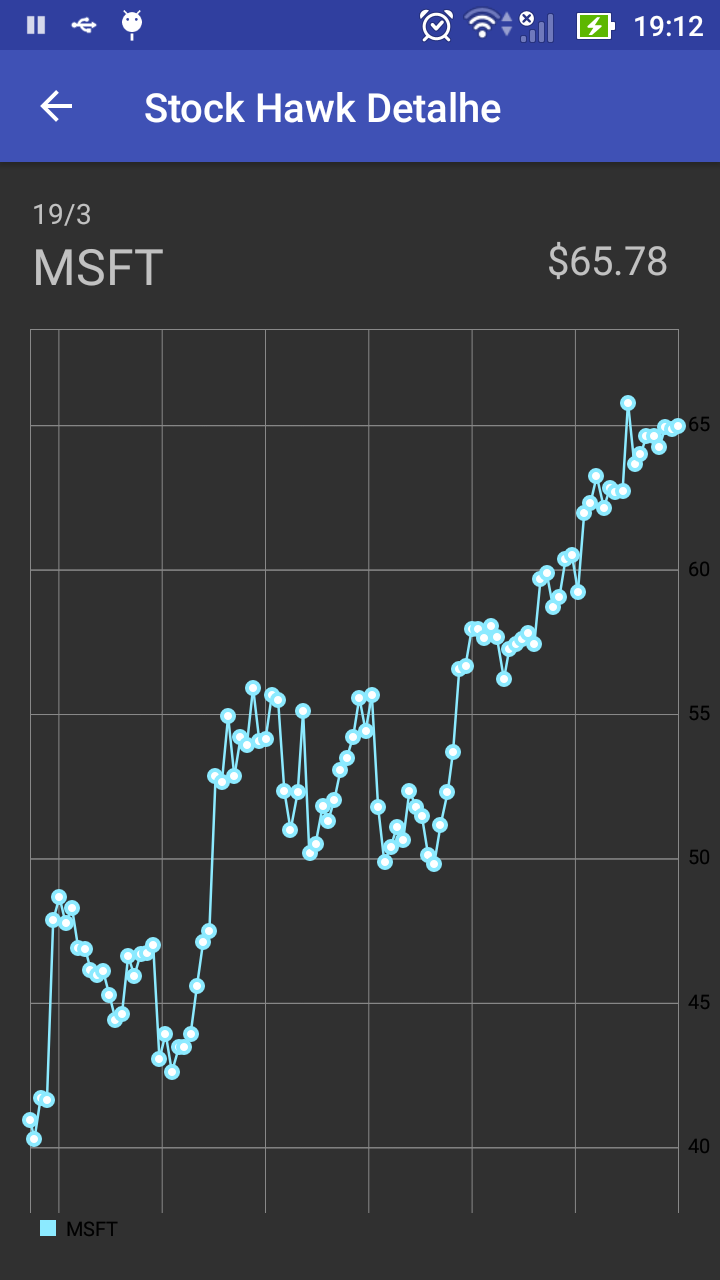
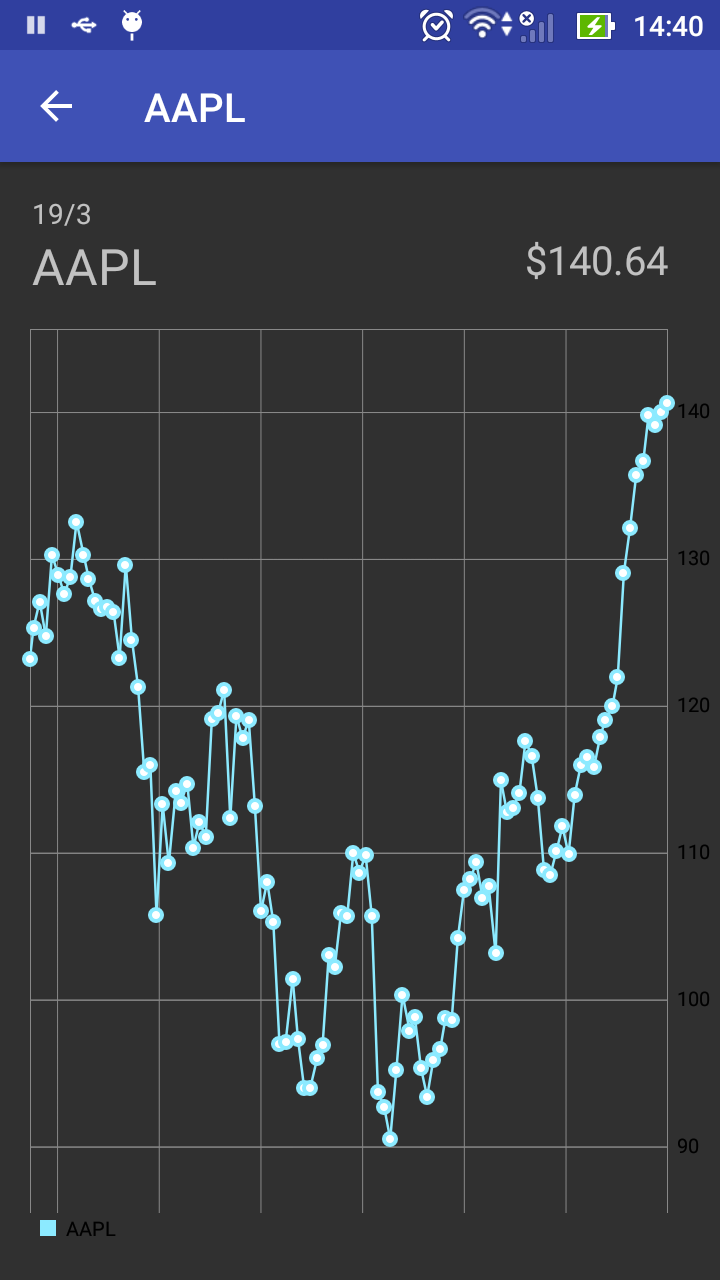
Simbolo como título em detalhe da ação

diff --git a/app/src/main/java/com/udacity/stockhawk/ui/DetailActivity.java b/app/src/main/java/com/udacity/stockhawk/ui/DetailActivity.java
@@ -122,7 +122,10 @@ public class DetailActivity extends AppCompatActivity
         }
 
         String selection = Contract.Quote.COLUMN_SYMBOL + "=?";
-        String[] selectionArgs = new String[]{Contract.Quote.getStockFromUri(uriStockSymbol)};
+        String symbol = Contract.Quote.getStockFromUri(uriStockSymbol);
+        String[] selectionArgs = new String[]{symbol};
+
+        getSupportActionBar().setTitle(symbol);
 
         return new CursorLoader(this,
                 uriStockSymbol,
